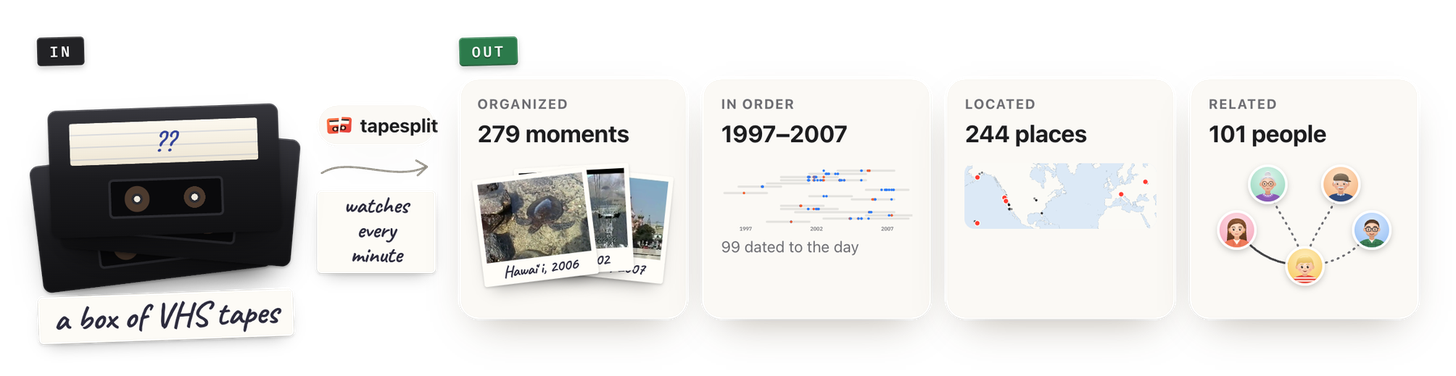
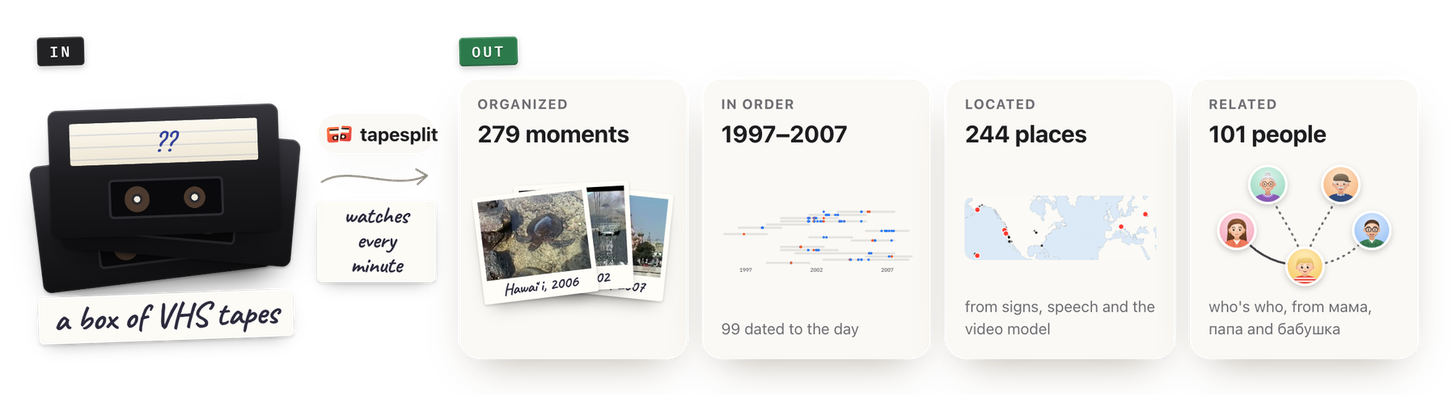
Tidy the spacing, the whiteboard boxes and the next-scene frame
The opening paragraph gets room below the In/Out cover. The map and family
cards in the cover get captions so all four cards balance. The Tape 18 card
is tighter, and the spread's handwritten caption is smaller.

The whiteboard shows one box around the date that was read, instead of four
overlapping line boxes from the sloping handwriting.

The Feb 17, 2006 polaroid now shows a kid in a red shirt by a rocking chair,
taken while the camcorder's stamp is still on screen, instead of an empty
room. The README and post images are re-rendered to match.

diff --git a/site/how.js b/site/how.js
@@ -127,7 +127,7 @@
   // ------------------------------------------------------------ the two stamps
   const SEQ_ALT = [
     "Me and my mom by the car on a sunny lawn on my first day of first grade, with the date stamp SEP 7 2005",
-    "An empty room with the date stamp FEB 17 2006",
+    "A kid in a red shirt next to a wooden rocking chair, with the date stamp FEB 17 2006",
   ];
   const SEQ_STYLE = [["-2deg", "var(--washi-yellow)"], ["1.8deg", "var(--washi-pink)"]];
   const seq = $("#sequence");
@@ -147,7 +147,11 @@
   if (stampPic) {
     stampPic.innerHTML = `<img src="${eugene.image}" alt="The first morning of school: Filip by the car, with the camcorder date stamp SEP 7 2005 in the corner" loading="lazy" width="960" height="720">${boxes(eugene.ocr)}`;
     const wb = H.whiteboard;
-    $("#when-board").innerHTML = `<img src="${wb.image}" alt="A classroom whiteboard: Good Morning! Today is Wednesday, September 7, 2005. We will learn names today." loading="lazy" width="960" height="720">${boxes(wb.ocr)}`;
+    // One box around the date it read: the handwriting slopes, so the per-line boxes overlap.
+    const dateParts = wb.ocr.filter((o) => !/learn names/i.test(o.text));
+    const x0 = Math.min(...dateParts.map((o) => o.box[0])), y0 = Math.min(...dateParts.map((o) => o.box[1]));
+    const x1 = Math.max(...dateParts.map((o) => o.box[0] + o.box[2])), y1 = Math.max(...dateParts.map((o) => o.box[1] + o.box[3]));
+    $("#when-board").innerHTML = `<img src="${wb.image}" alt="A classroom whiteboard: Good Morning! Today is Wednesday, September 7, 2005. We will learn names today." loading="lazy" width="960" height="720">${boxes([{ box: [x0, y0, x1 - x0, y1 - y0] }])}`;
     document.querySelectorAll("#ch-when .reveal").forEach((el) => watch(el));
   }
 

diff --git a/site/how.css b/site/how.css
@@ -286,7 +286,7 @@
   position: relative;
   max-width: 880px;
   margin: 0 auto;
-  padding: 18px 20px 30px;
+  padding: 20px 22px 16px;
   border-radius: 14px;
   background: rgba(255, 255, 255, 0.5);
   border: 1px solid rgba(0, 0, 0, 0.06);
@@ -437,9 +437,9 @@
 
 .spread-caption {
   text-align: center;
-  font-size: clamp(22px, 2.6vw, 28px);
-  margin: 40px auto 0;
-  max-width: 30em;
+  font-size: clamp(20px, 2.2vw, 24px);
+  margin: 48px auto 0;
+  max-width: 26em;
   transform: rotate(-1deg);
 }
 
@@ -2530,9 +2530,13 @@
 
 .out-card {
   display: grid;
-  align-content: start;
+  grid-template-rows: auto auto 1fr auto;
   gap: 3px;
   padding: 12px 14px 13px;
+}
+
+.out-card > :nth-child(3) {
+  align-self: center;
 }
 
 .out-card .src {

diff --git a/site/index.html b/site/index.html
@@ -105,11 +105,13 @@
               <span class="src">Located</span>
               <b class="out-n"><span data-stat="places">244</span> places</b>
               <svg class="out-map" id="out-map" aria-hidden="true"></svg>
+              <span class="out-cap">from signs, speech and the video model</span>
             </article>
             <article class="glass out-card">
               <span class="src">Related</span>
               <b class="out-n"><span data-stat="people">101</span> people</b>
               <div class="out-tree" id="out-tree" aria-hidden="true"></div>
+              <span class="out-cap">who's who, from мама, папа and бабушка</span>
             </article>
           </div>
         </div>

diff --git a/site/styles.css b/site/styles.css
@@ -446,7 +446,7 @@ h3 {
 }
 
 .post > .prose#why {
-  margin-top: 0;
+  margin-top: clamp(40px, 6vw, 64px);
 }
 
 .post .section {
